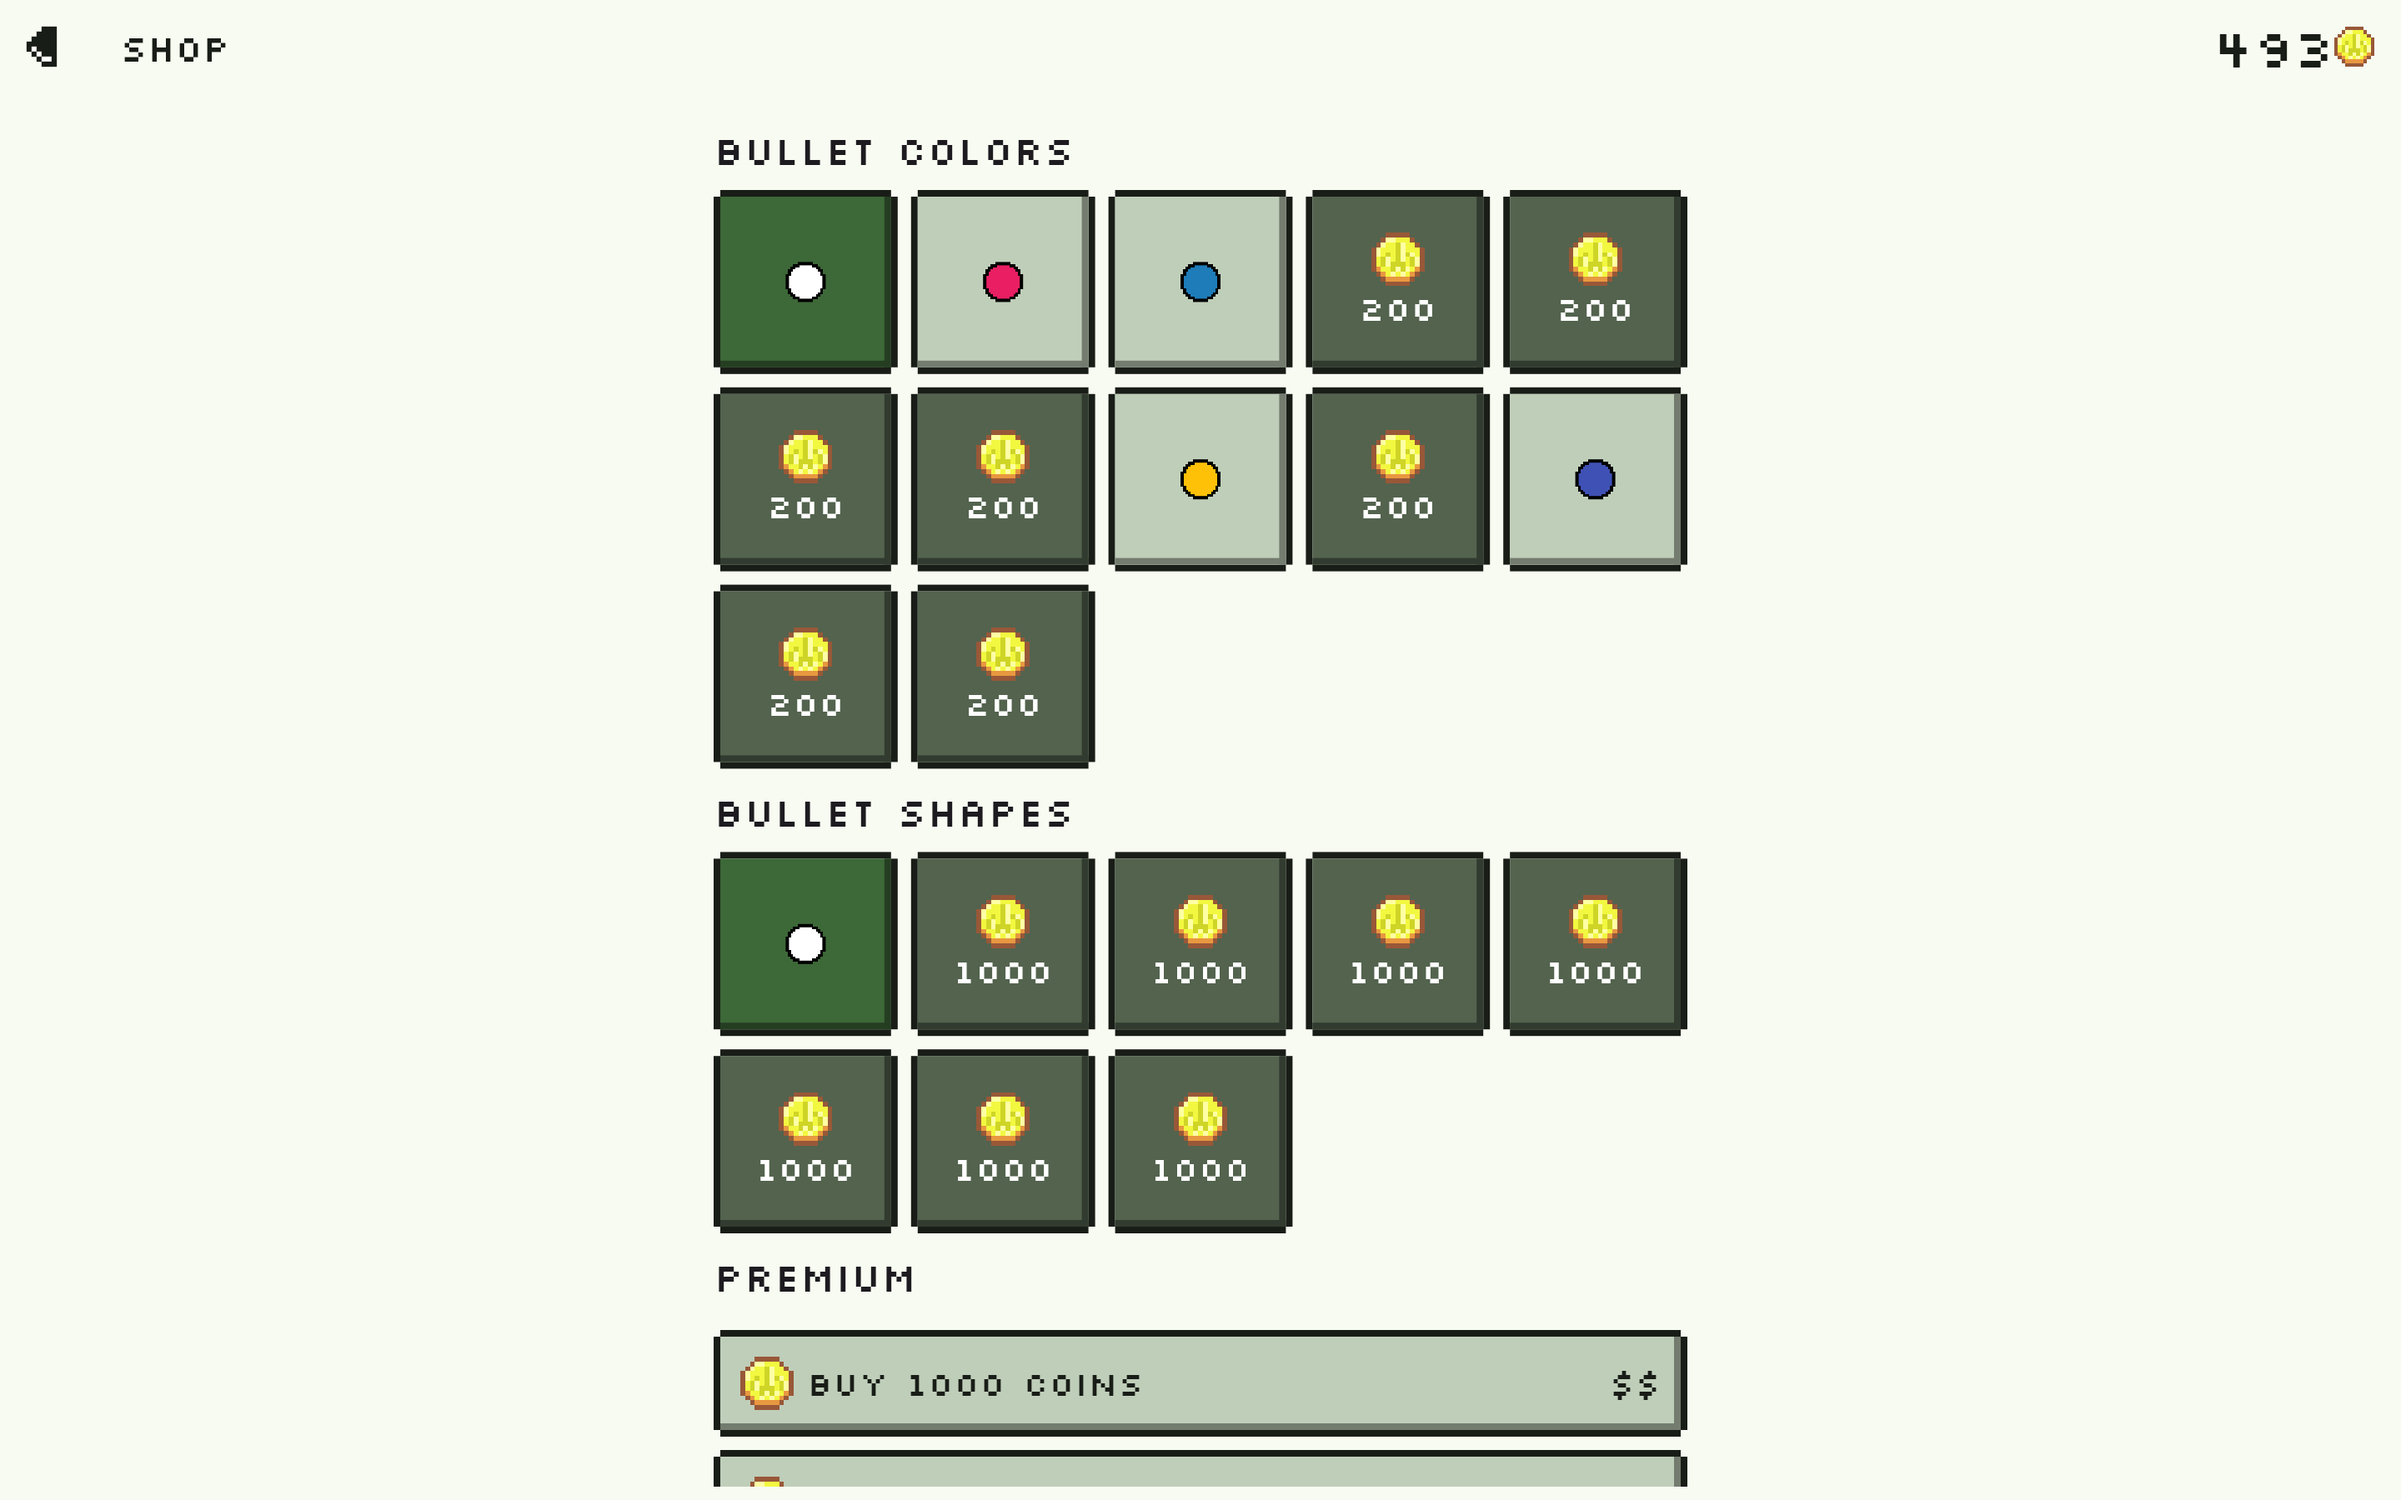
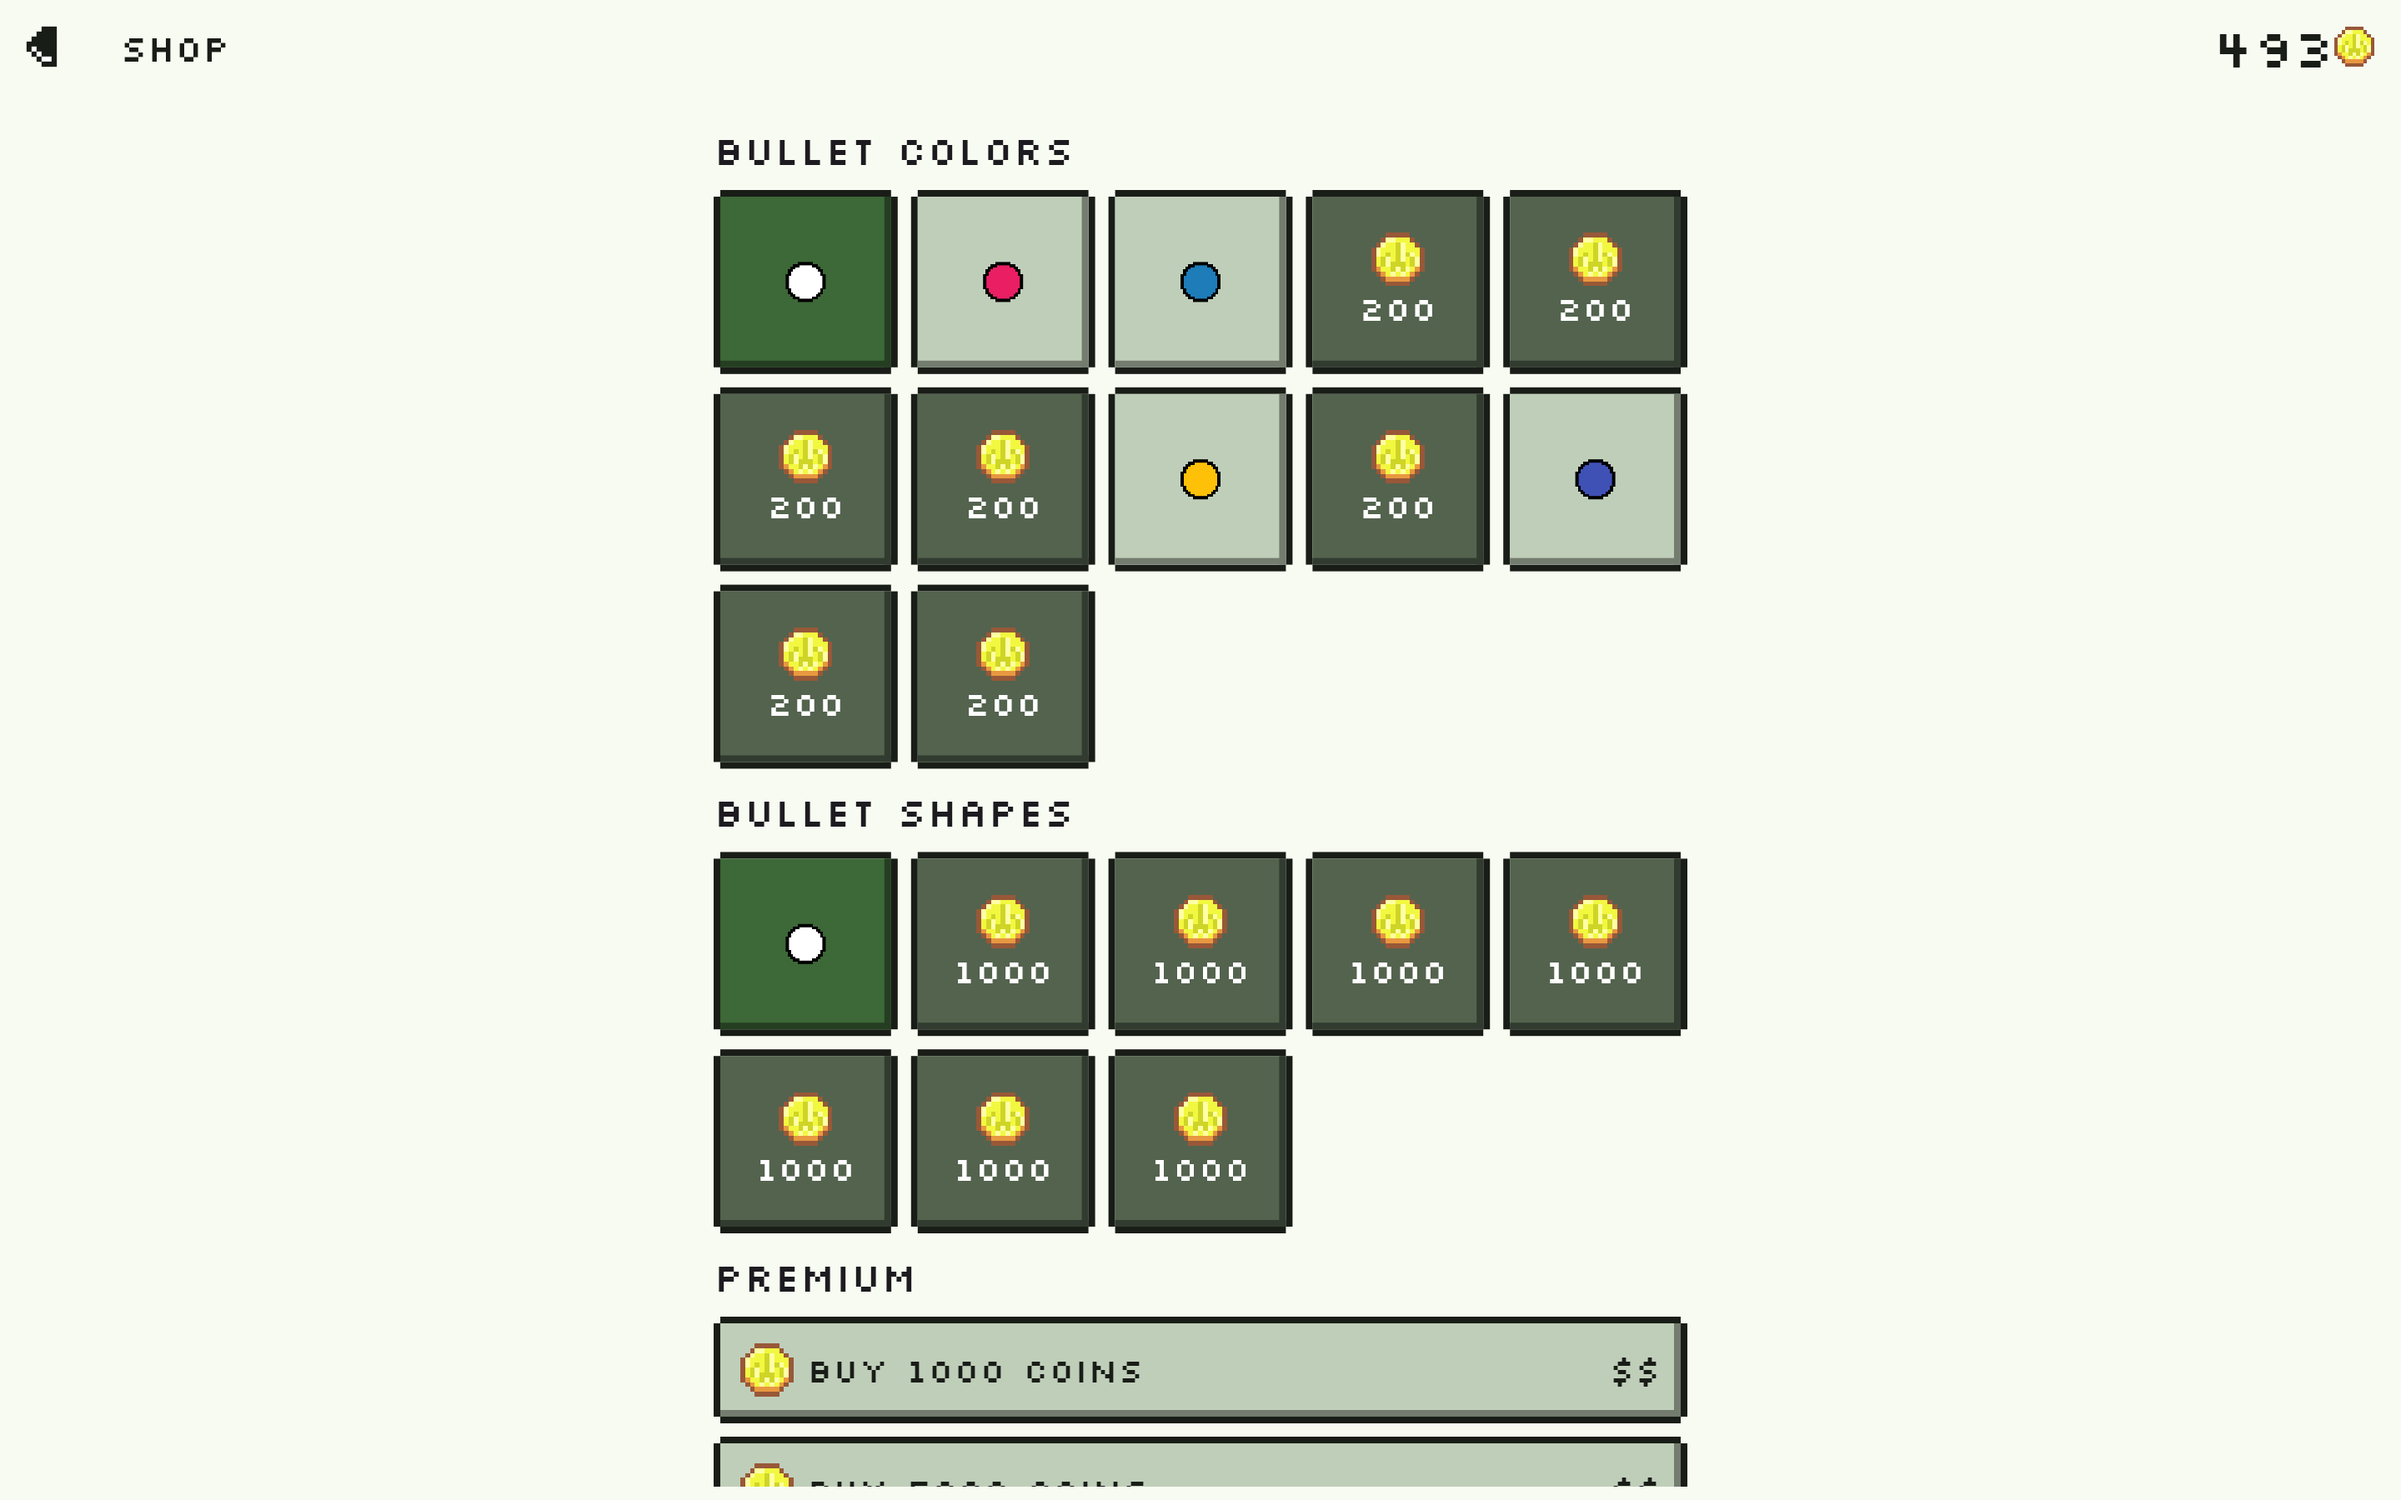
fix: spacing in shop on macOS

Changed region(s): [[0.2812, 0.8711, 0.7188, 0.9956]]

diff --git a/lib/pages/shop.dart b/lib/pages/shop.dart
@@ -125,7 +125,7 @@ class ShopPage extends StatelessWidget {
                   ),
                   SliverList.list(
                     children: [
-                      if (AdState.adsSupported)
+                      if (AdState.adsSupported) ...[
                         ValueListenableBuilder(
                           valueListenable:
                               RicochlimeProduct.removeAdsForever.state,
@@ -220,7 +220,8 @@ class ShopPage extends StatelessWidget {
                             );
                           },
                         ),
-                      const SizedBox(height: 8),
+                        const SizedBox(height: 8),
+                      ],
                       NesButton(
                         type: NesButtonType.normal,
                         onPressed: () =>
